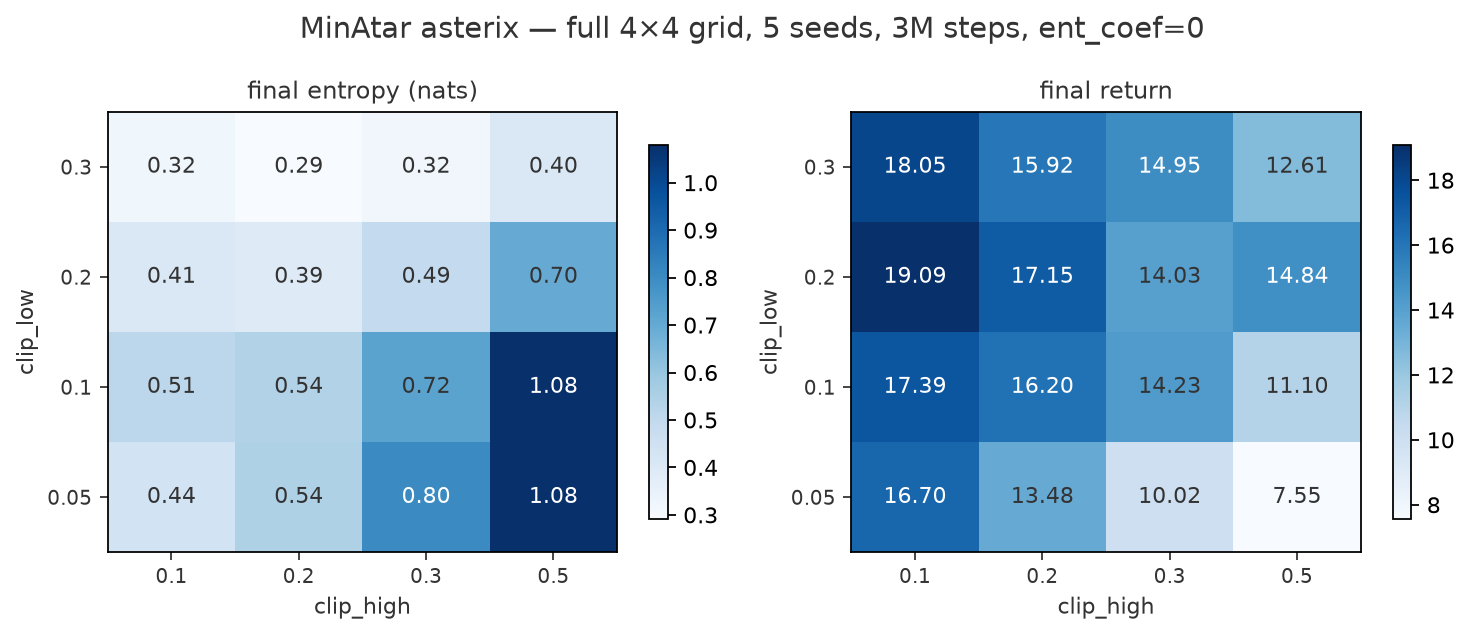
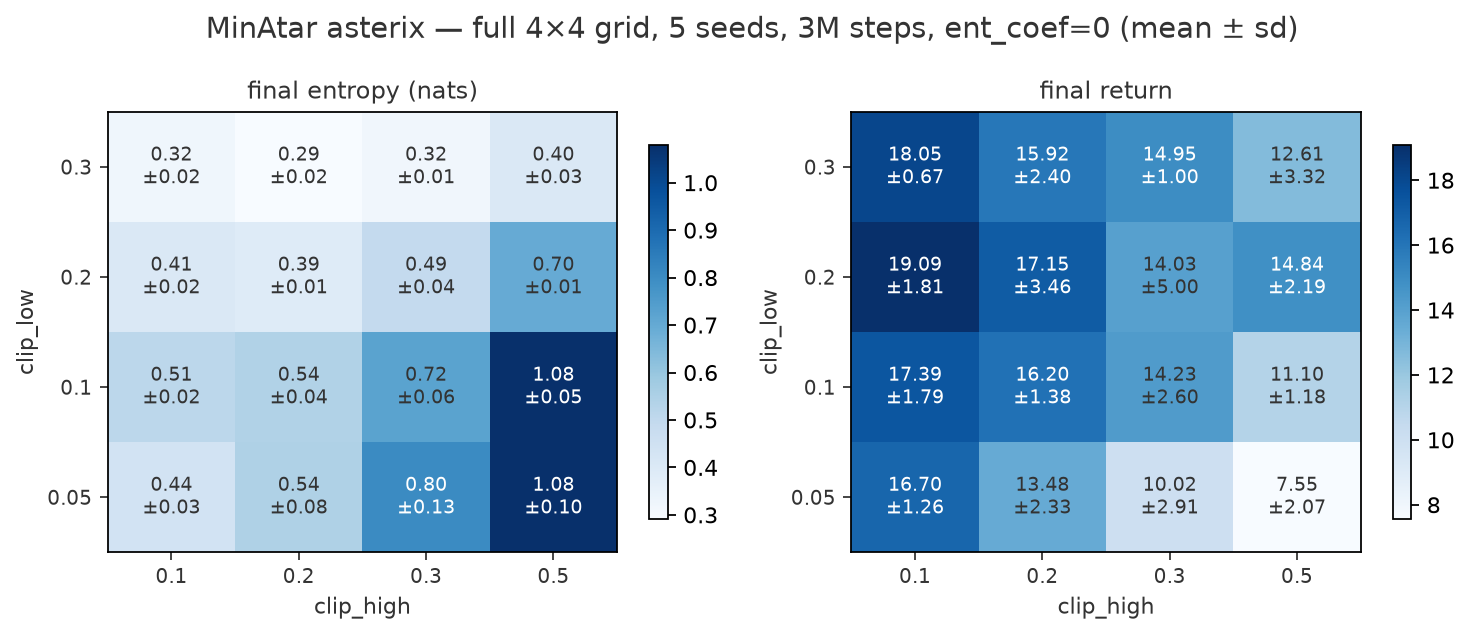
fix: report seed variance; soften return claims; document KL confound

diff --git a/ppo/plot.py b/ppo/plot.py
@@ -139,14 +139,16 @@ def traj_figure(cells, out_path: Path, title: str, max_entropy: float | None):
 
 
 def _final(seed_rows, key, tail_frac=0.1):
-    """Mean of the last tail_frac of training, then mean across seeds."""
+    """Per-seed mean of the last tail_frac of training -> (mean, sd) across seeds."""
     per_seed = []
     for rows in seed_rows:
         tail = rows[-max(1, int(len(rows) * tail_frac)) :]
         vals = [r[key] for r in tail if r[key] is not None]
         if vals:
             per_seed.append(float(np.mean(vals)))
-    return float(np.mean(per_seed)) if per_seed else np.nan
+    if not per_seed:
+        return np.nan, np.nan
+    return float(np.mean(per_seed)), float(np.std(per_seed))
 
 
 def heatmap_figure(cells, out_path: Path, title: str):
@@ -158,8 +160,11 @@ def heatmap_figure(cells, out_path: Path, title: str):
         axes, ("entropy", "episodic_return"), ("final entropy (nats)", "final return")
     ):
         grid = np.full((len(cls), len(chs)), np.nan)
+        sds = np.full((len(cls), len(chs)), np.nan)
         for (cl, ch), seed_rows in cells.items():
-            grid[cls.index(cl), chs.index(ch)] = _final(seed_rows, key)
+            m, sd = _final(seed_rows, key)
+            grid[cls.index(cl), chs.index(ch)] = m
+            sds[cls.index(cl), chs.index(ch)] = sd
         im = ax.imshow(grid, cmap="Blues", aspect="auto", origin="lower")
         for i in range(len(cls)):
             for j in range(len(chs)):
@@ -170,10 +175,10 @@ def heatmap_figure(cells, out_path: Path, title: str):
                     ax.text(
                         j,
                         i,
-                        f"{grid[i, j]:.2f}",
+                        f"{grid[i, j]:.2f}\n±{sds[i, j]:.2f}",
                         ha="center",
                         va="center",
-                        fontsize=10,
+                        fontsize=8.5,
                         color="white" if frac > 0.6 else INK,
                     )
         ax.set_xticks(range(len(chs)), [str(c) for c in chs])

diff --git a/README.md b/README.md
@@ -52,13 +52,15 @@ Three findings:
 2. **`clip_low` is the dominant dial.** It moves entropy ~3× further than
    `clip_high` at matched widths. The literature's obsession with clip-higher
    (DAPO) targets the weaker of the two knobs, at least at this scale.
-3. **The performance effect does not transfer — it flips.** On breakout,
-   high-entropy cells win (best 21.4 ± 2.1 at (0.1, 0.1); the low-entropy row
-   manages 9–12). On asterix the *low*-entropy cells win (best 19.1 ± 1.8 at
-   (0.2, 0.1); the max-entropy corner collapses to 7.6). The pilot's
-   "entropy doubles your return" was breakout-specific, exactly as its caveat
-   warned. Clip asymmetry is a real entropy knob, not a free lunch — the
-   right setting is a property of the environment.
+3. **The performance effect does not transfer — the correlation flips.**
+   Return correlates *positively* with entropy on breakout (the tight-clip_low
+   rows sit at ~18–21 vs ~9–12 for the loose row, outside the seed bands) and
+   *negatively* on asterix (the max-entropy corner drops to 7.6 ± 2.1).
+   Cell-level rankings are noise (return sd up to ±5.8; breakout's best cell
+   is actually a mid-entropy one) — only the row-level pattern survives the
+   error bars. The pilot's "entropy doubles your return" was breakout-specific,
+   exactly as its caveat warned. Clip asymmetry is a real entropy knob, not a
+   free lunch — the right setting is a property of the environment.
 
 The 3-seed pilot that motivated the full grid (and caught my sign error in
 the mechanism story, see [GUIDE.md](GUIDE.md#7-splitting-the-clip)) is
@@ -112,10 +114,19 @@ uv run python -m ppo.plot --runs runs/breakout-grid --out figures --prefix break
 ## Honest limitations
 
 - MinAtar's entropy ceiling is $\ln 6 \approx 1.79$ nats; all effects live
-  inside that. 5 seeds per cell.
-- One environment family, one training regime (`epochs=8, lr=1e-3`). The
-  action-space-size dose-response (6 → 18 → hundreds), which would directly
-  test DPPO's vocabulary-size hypothesis, isn't run yet.
+  inside that. 5 seeds per cell; heatmaps report mean ± sd.
+- **The clip bounds also change update size, not just which samples die:**
+  realized per-update KL varies ~4× across the grid (≈0.0003 at clip_low=0.05
+  up to ≈0.0012+ at clip_low=0.3, both games). Entropy differences therefore
+  co-move with step-size differences, and this experiment cannot separate
+  "the clip's dead zones move entropy" from "smaller effective updates
+  preserve entropy." A KL-matched control is the single most important
+  follow-up.
+- Two games so far ("flips per game" is an anecdote, not yet a pattern —
+  space_invaders and freeway grids are running and land here when done).
+- One training regime (`epochs=8, lr=1e-3`). The action-space-size
+  dose-response (6 → 18 → hundreds), which would directly test DPPO's
+  vocabulary-size hypothesis, isn't run yet.
 - This is a student replication study of a mechanism, not a new method. If the
   full grid shows nothing outside the bands, that's the finding and it stays
   in this README.
